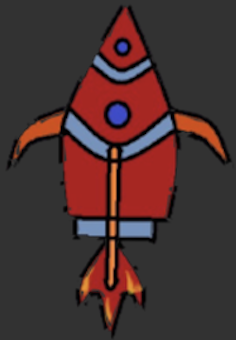
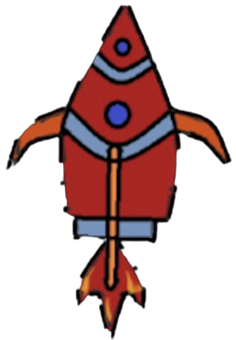
game updated

diff --git a/game.html b/game.html
@@ -2,6 +2,7 @@
 <html lang="en">
 
 <head>
+    <link href="https://fonts.googleapis.com/css2?family=Space+Mono:ital@1&display=swap" rel="stylesheet" />
     <link rel="stylesheet" type="text/css" href="./public/src/css/game.css" media="all" />
     <script src="./public/src/js/game.js"></script>
     <meta http-equiv="Content-Type" content="text/html; charset=UTF-8" />
@@ -22,6 +23,14 @@
         var noOfPlayers;
         var playerID;
         var latestPlayer;
+
+        var animationInterval;
+        var widthOfSpriteSheet;
+        var widthOfEachSprite;
+
+        var shipGif = ["public/src/assets/images/rocket1.gif", "public/src/assets/images/rocket2.gif", "public/src/assets/images/rocket3.gif"];
+        var shipStat = ["public/src/assets/images/rocket2-removebg-preview.png", "public/src/assets/images/rocket4-removebg-preview.png", "public/src/assets/images/rocket5-removebg-preview.png"];
+
 
         var noOfRocks;
         var rockID;
@@ -60,32 +69,34 @@
 </head>
 
 <body onload="init(),restart();">
-    <div class="menu-wrap">
-        <input type="checkbox" class="toggler" />
-        <div class="hamburger">
-            <div></div>
-        </div>
-        <div class="menu">
-            <div class="overlay"></div>
-            <div>
-                <div>
-                    <ul>
-                        <li>
-                            <a class="btn restart" onclick="extra();">Restart</a>
-                        </li>
-                        <li>
-                            <a href="index.html" class="btn homepage">Back to HomePage</a>
-                        </li>
-                        <li><a href="#" class="btn leaderbrd">Leaderboard</a></li>
-                    </ul>
-                </div>
-            </div>
-        </div>
-    </div>
 
-    <div id="scores">
+    <div id="controlPanel">
         <table>
             <tr>
+                <td>
+                    <div class="menu-wrap">
+                        <input type="checkbox" class="toggler" />
+                        <div class="hamburger">
+                            <div></div>
+                        </div>
+                        <div class="menu">
+                            <div class="overlay"></div>
+                            <div>
+                                <div>
+                                    <ul>
+                                        <li>
+                                            <a class="btn restart" onclick="extra();">Restart</a>
+                                        </li>
+                                        <li>
+                                            <a href="index.html" class="btn homepage">Back to HomePage</a>
+                                        </li>
+                                        <li><a href="#" class="btn leaderbrd">Leaderboard</a></li>
+                                    </ul>
+                                </div>
+                            </div>
+                        </div>
+                    </div>
+                </td>
                 <td>
                     <p>
                         Ship Coordinates (<span id="ship_location" class="location">... </span
@@ -99,9 +110,6 @@
               >)
             </p>
           </td>
-          <td>
-            <p>Score: [<span id="score">0</span>]</p>
-                </td>
                 <td><button onclick="addPlayer();">Add New Player</button></td>
                 <td><button onclick="player1();">Control rocket 1</button></td>
                 <td><button onclick="player2();">Control rocket 2</button></td>
@@ -113,49 +121,59 @@
         <!-- <div id="divcountdown">
         <div id="mytimeleft"></div>
         </div> -->
+        <div id="divcountdown">
+            <div id="mytimeleft"></div>
+        </div>
         <div id="board">
-            <div id="divcountdown">
-                <div id="mytimeleft"></div>
-            </div>
             <div id="divcountdown2">
                 <div id="mytimeleft2"></div>
             </div>
-            <img id="ship1" src="./public/src/assets/images/rocket1.gif" class="ship" />
-            <img id="ship2" src="./public/src/assets/images/rocket2.gif" class="ship" />
-            <img id="ship3" src="./public/src/assets/images/rocket3.gif" class="ship" />
-
-            <div id="allRocks">
-                <img id="rock" src="./public/src/assets/images/meteor2.png" class="rocks" />
-                <img id="rock" src="./public/src/assets/images/bomb2.png" class="rocks" />
-                <img id="rock" src="./public/src/assets/images/meteor3.png" class="rocks" />
-                <img id="rock" src="./public/src/assets/images/meteor2.png" class="rocks" />
-                <img id="rock" src="./public/src/assets/images/bomb2.png" class="rocks" />
-                <img id="rock" src="./public/src/assets/images/meteor3.png" class="rocks" />
-                <img id="rock" src="./public/src/assets/images/meteor2.png" class="rock" />
-                <img id="rock" src="./public/src/assets/images/bomb2.png" class="rocks" />
-                <img id="rock" src="./public/src/assets/images/meteor3.png" class="rocks" />
-                <img id="rock" src="./public/src/assets/images/meteor2.png" class="rocks" />
-                <img id="rock" src="./public/src/assets/images/bomb2.png" class="rocks" />
-                <img id="rock" src="./public/src/assets/images/meteor3.png" class="rocks" />
-                <img id="rock" src="./public/src/assets/images/meteor2.png" class="rocks" />
-                <img id="rock" src="./public/src/assets/images/bomb2.png" class="rocks" />
-                <img id="rock" src="./public/src/assets/images/meteor3.png" class="rocks" />
-                <img id="rock" src="./public/src/assets/images/meteor2.png" class="rock" />
-                <img id="rock" src="./public/src/assets/images/bomb2.png" class="rocks" />
-                <img id="rock" src="./public/src/assets/images/meteor3.png" class="rocks" />
-                <img id="rock" src="./public/src/assets/images/meteor2.png" class="rocks" />
-                <img id="rock" src="./public/src/assets/images/bomb2.png" class="rocks" />
-                <img id="rock" src="./public/src/assets/images/meteor3.png" class="rocks" />
-                <img id="rock" src="./public/src/assets/images/meteor2.png" class="rock" />
-                <img id="rock" src="./public/src/assets/images/bomb2.png" class="rocks" />
-                <img id="rock" src="./public/src/assets/images/meteor3.png" class="rocks" />
-                <img id="rock" src="./public/src/assets/images/meteor2.png" class="rocks" />
-                <img id="rock" src="./public/src/assets/images/bomb2.png" class="rocks" />
-                <img id="rock" src="./public/src/assets/images/meteor3.png" class="rocks" />
-                <img id="rock" src="./public/src/assets/images/meteor2.png" class="rock" />
-                <img id="rock" src="./public/src/assets/images/bomb2.png" class="rocks" />
-            </div>
-        </div>
+            <div id="score">0</div>
+    <div id="allShips">
+        <img id="ship1" src="./public/src/assets/images/rocket2-removebg-preview.png" class="ship" />
+        <img id="ship2" src="./public/src/assets/images/rocket2.gif" class="ship" />
+        <img id="ship3" src="./public/src/assets/images/rocket3.gif" class="ship" />
+        <img id="ship3" src="./public/src/assets/images/rocket1.gif" class="ship" />
+    </div>
+    <div id="allRocks">
+        <img id="rock" src="./public/src/assets/images/meteor2.png" class="rocks" />
+        <img id="rock" src="./public/src/assets/images/rocknobg.gif" class="rocks" />
+        <img id="rock" src="./public/src/assets/images/rocknobg.gif" class="rocks" />
+        <img id="rock" src="./public/src/assets/images/rocknobg.gif" class="rocks" />
+        <img id="rock" src="./public/src/assets/images/rocknobg.gif" class="rocks" />
+        <img id="rock" src="./public/src/assets/images/rocknobg.gif" class="rocks" />
+        <img id="rock" src="./public/src/assets/images/rocknobg.gif" class="rocks" />
+        <img id="rock" src="./public/src/assets/images/rocknobg.gif" class="rocks" />
+        <img id="rock" src="./public/src/assets/images/bomb2.png" class="rocks" />
+        <img id="rock" src="./public/src/assets/images/meteor3.png" class="rocks" />
+        <img id="rock" src="./public/src/assets/images/meteor2.png" class="rocks" />
+        <img id="rock" src="./public/src/assets/images/bomb2.png" class="rocks" />
+        <img id="rock" src="./public/src/assets/images/meteor3.png" class="rocks" />
+        <img id="rock" src="./public/src/assets/images/meteor2.png" class="rock" />
+        <img id="rock" src="./public/src/assets/images/bomb2.png" class="rocks" />
+        <img id="rock" src="./public/src/assets/images/meteor3.png" class="rocks" />
+        <img id="rock" src="./public/src/assets/images/meteor2.png" class="rocks" />
+        <img id="rock" src="./public/src/assets/images/bomb2.png" class="rocks" />
+        <img id="rock" src="./public/src/assets/images/meteor3.png" class="rocks" />
+        <img id="rock" src="./public/src/assets/images/meteor2.png" class="rocks" />
+        <img id="rock" src="./public/src/assets/images/bomb2.png" class="rocks" />
+        <img id="rock" src="./public/src/assets/images/meteor3.png" class="rocks" />
+        <img id="rock" src="./public/src/assets/images/meteor2.png" class="rock" />
+        <img id="rock" src="./public/src/assets/images/bomb2.png" class="rocks" />
+        <img id="rock" src="./public/src/assets/images/meteor3.png" class="rocks" />
+        <img id="rock" src="./public/src/assets/images/meteor2.png" class="rocks" />
+        <img id="rock" src="./public/src/assets/images/bomb2.png" class="rocks" />
+        <img id="rock" src="./public/src/assets/images/meteor3.png" class="rocks" />
+        <img id="rock" src="./public/src/assets/images/meteor2.png" class="rock" />
+        <img id="rock" src="./public/src/assets/images/bomb2.png" class="rocks" />
+        <img id="rock" src="./public/src/assets/images/meteor3.png" class="rocks" />
+        <img id="rock" src="./public/src/assets/images/meteor2.png" class="rocks" />
+        <img id="rock" src="./public/src/assets/images/bomb2.png" class="rocks" />
+        <img id="rock" src="./public/src/assets/images/meteor3.png" class="rocks" />
+        <img id="rock" src="./public/src/assets/images/meteor2.png" class="rock" />
+        <img id="rock" src="./public/src/assets/images/bomb2.png" class="rocks" />
+    </div>
+    </div>
 </body>
 
 </html>

diff --git a/public/src/css/game.css b/public/src/css/game.css
@@ -1,6 +1,7 @@
     * {
         margin: 0px;
         padding: 0px;
+        font-family: 'Space Mono', monospace;
         /* box-sizing: border-box; */
         /* overflow: hidden; */
     }
@@ -29,7 +30,7 @@
         align-self: center;
     }
     
-    #scores {
+    #controlPanel {
         background-color: rgb(247, 134, 241);
         width: 100%;
         align-content: center;
@@ -317,13 +318,20 @@
         left: 25%;
         height: 30px;
         border: 2px black solid;
-        background: linear-gradient(to right, red, yellow, green);
+        background: linear-gradient(to right, #ba1e68, #1d1135, #0c164f, #5643fd);
+        transform: rotate(-90deg);
+        top: 50%;
+        left: -24%;
+        border-radius: 25px;
+        z-index: 1;
     }
     
     #mytimeleft {
         float: right;
-        background: lightgrey;
+        background: black;
         height: 30px;
+        border-radius: 25px;
+        z-index: 1;
     }
     
     #divcountdown2 {
@@ -332,16 +340,23 @@
         left: 25%;
         height: 30px;
         border: 2px black solid;
-        background: linear-gradient(to right, red, yellow, green);
+        background: linear-gradient(to right, #ba1e68, #1d1135, #0c164f, #5643fd);
+        transform: rotate(-90deg);
+        top: 50%;
+        left: -24%;
+        border-radius: 25px;
         visibility: hidden;
+        z-index: 1;
     }
     
     #mytimeleft2 {
         float: right;
-        background: lightgrey;
+        background: black;
         height: 30px;
+        border-radius: 25px;
+        z-index: 1;
     }
     
-    #rockg {
-        width: 100px;
+    #score {
+        text-align: center;
     }

diff --git a/public/src/js/timer.js b/public/src/js/timer.js
@@ -60,27 +60,19 @@ function extra() {
 
 function timerPosUpdate() {
     console.log("players: " + noOfPlayers)
-    var mytimeleft = document.getElementById("mytimeleft");
     var divcountdown = document.getElementById("divcountdown");
 
     if (noOfPlayers >= 2) {
-        divcountdown.style.transform = "rotate(-90deg)";
-        divcountdown.style.top = '60%';
-        divcountdown.style.height = '20px';
-        mytimeleft.style.height = '20px';
+        // divcountdown.style.transform = "rotate(-90deg)";
+        divcountdown.style.left = '25%';
 
 
         if (noOfPlayers == 3) {
-            var mytimeleft2 = document.getElementById("mytimeleft2");
             var divcountdown2 = document.getElementById("divcountdown2");
             divcountdown2.style.visibility = 'visible';
-            divcountdown2.style.transform = "rotate(-90deg)";
-            divcountdown2.style.top = '60%';
-            divcountdown2.style.height = '20px';
-            mytimeleft2.style.height = '20px';
             divcountdown.style.left = '8.33%';
             divcountdown2.style.left = '41.67%';
-            mytimeleft2.style.left = '20%';
+            // mytimeleft2.style.left = '20%';
 
 
         }

diff --git a/public/src/js/keyhandler.js b/public/src/js/keyhandler.js
@@ -1,21 +1,30 @@
 function keyHandler() {
+
     if (keyState[KEYRIGHT]) {
         X_ship_Direction = 1;
         ship_Move_X = 1;
-    } // right key
+        // ships[playerID].setAttribute("src", shipGif[playerID]);
+    }
     if (keyState[KEYLEFT]) {
         X_ship_Direction = -1;
         ship_Move_X = 1;
-    } // left key
+        // ships[playerID].setAttribute("src", shipGif[playerID]);
+    }
 
     if (keyState[KEYUP]) {
         Y_ship_Direction = -1;
         ship_Move_Y = 1;
-    } // up key
+        // ships[playerID].setAttribute("src", shipGif[playerID]);
+    }
     if (keyState[KEYDOWN]) {
         Y_ship_Direction = 1;
         ship_Move_Y = 1;
-    } // up key
+        // ships[playerID].setAttribute("src", shipGif[playerID]);
+    }
+    if (!keyState[KEYLEFT] && !keyState[KEYRIGHT] && !keyState[KEYUP] && !keyState[KEYDOWN]) {
+        ships[playerID].setAttribute("src", shipGif[playerID]);
+        ships[playerID].style.height = 100 + 'px';
+    }
 }
 
 function keyDOWN(e) {

diff --git a/public/src/js/game.js b/public/src/js/game.js
@@ -6,6 +6,9 @@ function init() {
     rockMinSpeed = 7;
     rockMaxSpeed = 15;
 
+    widthOfSpriteSheet = 50;
+    widthOfEachSprite = 16.67;
+
     myTime = null;
 
     rockData = [];
@@ -157,13 +160,17 @@ function restart() {
 }
 
 function addPlayer() {
-    latestPlayer++;
-    noOfPlayers++;
-    // updateBoards();
-    // removeRocks();
-    // addRocks();
-    shipInit(latestPlayer);
-    timerPosUpdate();
+    if (noOfPlayers == 3) {
+        window.alert("Max 3 Players only!");
+    } else {
+        latestPlayer++;
+        noOfPlayers++;
+        // updateBoards();
+        // removeRocks();
+        // addRocks();
+        shipInit(latestPlayer);
+        timerPosUpdate();
+    }
 }
 
 // function updateBoards() {

diff --git a/public/src/js/rock.js b/public/src/js/rock.js
@@ -43,7 +43,7 @@ function Rock(rockpic, left, top, vx, vy) {
             //meteor boundaries
             // let i = 0;
             // while (i < noOfPlayers) {
-            if (that.x >= X_MAX || that.x <= X_MIN) {
+            if (that.x >= X_MAX + 100 || that.x <= X_MIN - 100) {
                 that.dx = that.dx * -1;
             }
             if (that.y >= Y_MAX - 50 || that.y <= Y_MIN + 60) {
